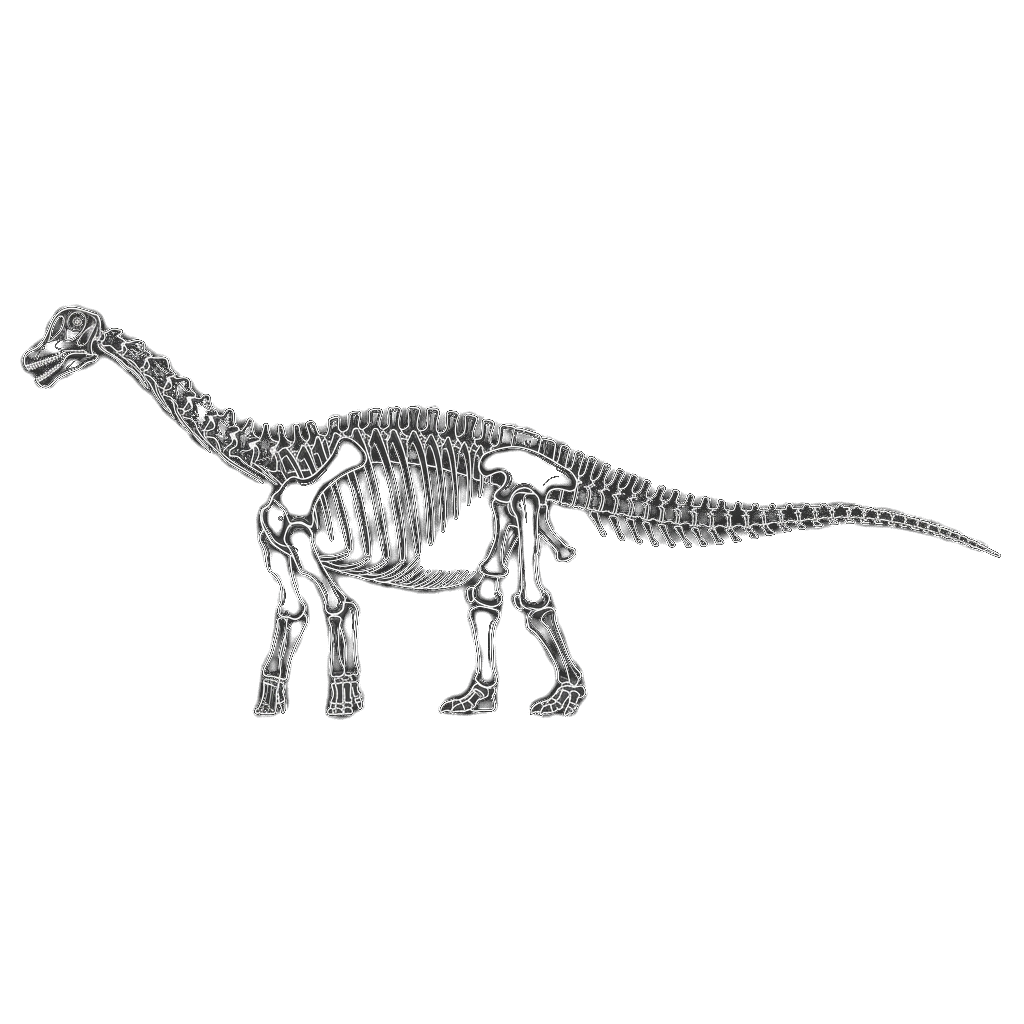
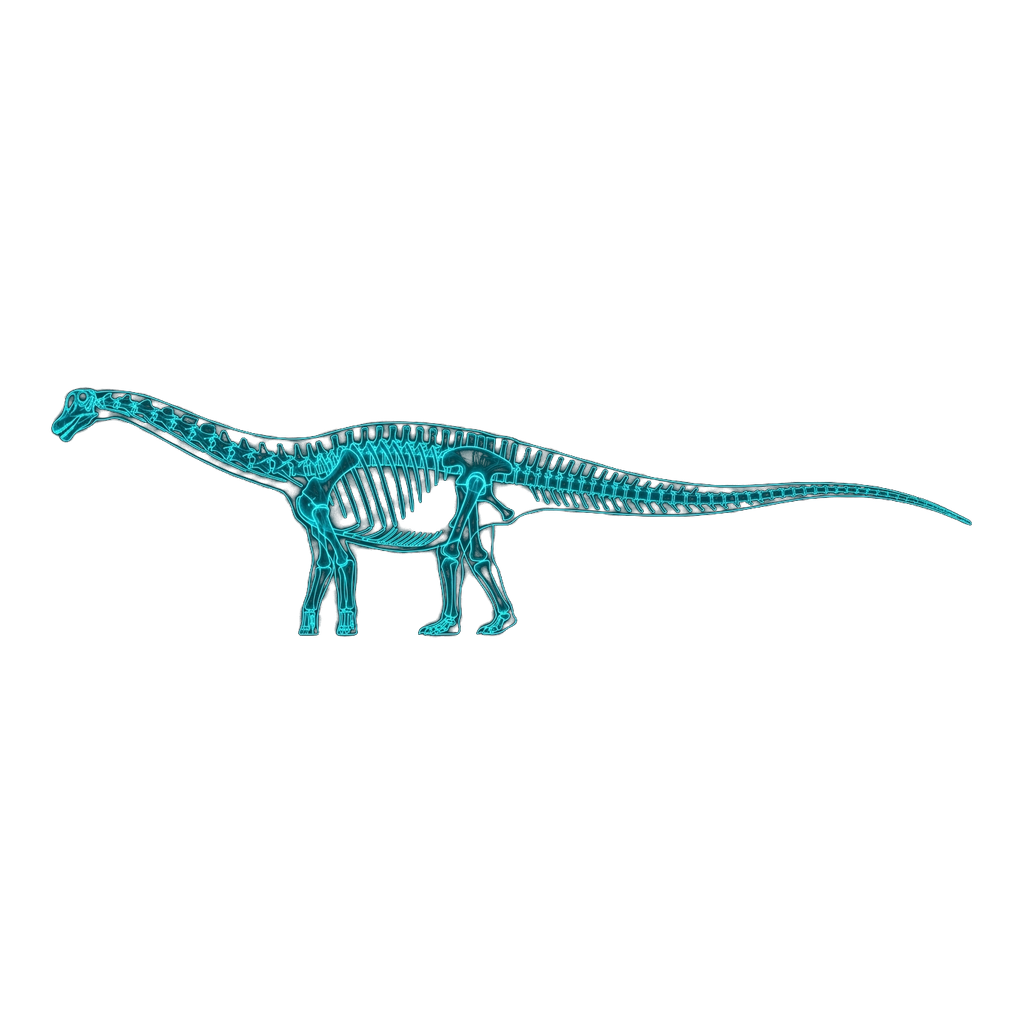
fix(titanosaurus): recalibrate skeletal proportions to exact 12m with horizontal pose and update euhelopus zoom to 1.2

Changed region(s): [[0.0, 0.2812, 0.9688, 0.7188]]

diff --git a/src/content/dinosaurs/titanosaurus.md b/src/content/dinosaurs/titanosaurus.md
@@ -24,14 +24,14 @@ bioTraits:
     value: "ボール＆ソケット状の強固な脊椎関節結合"
     detail: "尾や胴体の柔軟な可動性と重力分散を両立し、白亜紀末の地球環境での大適応放散を支えた"
 cyberMetadata:
-  bottomGap: 304
-  realHeight: 3
-  realLength: 12
-  contentHeightPx: 415
+  bottomGap: 387
+  realHeight: 3.3
+  realLength: 12.0
+  contentHeightPx: 253
   sourceRes: 1024
-  dinoLeft: "15%"
-  refRight: "10%"
-  zoom: 1.25
+  dinoLeft: "0%"
+  refRight: "-2%"
+  zoom: 1.0
 ---
 
 ### 1877年のインドから始まった大分類群の黎明：ラメタ層の発掘とリチャード・ライデッカー
@@ -41,10 +41,10 @@ cyberMetadata:
 
 19世紀後半という古生物学の黎明期において、インド亜大陸から巨大な竜脚類の化石が報告されたことは世界的な大ニュースとなりました。後に世界各地の断片化石が放り込まれる分類の混乱もありましたが、近年の厳密な系統再検討により、ティタノサウルスは独自の前凹型椎体を持つ正真正銘のインド産基盤的属として再定義され、進化史における不動の地位を保っています。
 
-### 実寸サイズとスケール：全長約12.0メートル・全高約3.0メートルが示す堅牢な重装甲ボディ
-ティタノサウルスの模式標本および骨格要素から復元された実寸サイズは、全長約12.0メートル、四足歩行姿勢における背中最高部での全高約3.0メートル、推定体重約12.0トン（約12000キログラム）と算出されています。超巨大種が並ぶグループの中では中型ですが、極めてバランスの取れた頑丈なプロポーションを誇っていました。
+### 実寸サイズとスケール：全長約12.0メートル・全高約3.3メートルが示す堅牢な重装甲ボディ
+ティタノサウルスの模式標本および骨格要素から復元された実寸サイズは、全長約12.0メートル、四足歩行姿勢における腰の高さ（腰高）約2.1〜2.2メートル、緩やかに首を持ち上げた頭頂部までの全高約3.3メートル（背中最高部約3.0メートル）、推定体重約12.0トン（約12000キログラム）と算出されています。超巨大種が並ぶグループの中では中型ですが、極めてバランスの取れた頑丈なプロポーションを誇っていました。
 
-現代の成人男性（身長約1.7メートル）が本種の前に立つと、全高約3.0メートルの背中線は人間の身長のほぼ2倍近くに達し、見上げるような圧倒的な威圧感と重厚な存在感を放ちます。体重約12.0トンという質量は現代のアフリカゾウ2頭分以上、大型観光バスに匹敵する重量感であり、四本の太い柱状の四肢が支える胴体は幅広く、どっしりとした低重心の安定感を誇示していました。
+現代の成人男性（身長約1.7メートル）が本種の前に立つと、全高約3.3メートルの頭部と約3.0メートルの背中線は人間の身長のほぼ2倍近くに達し、見上げるような圧倒的な威圧感と重厚な存在感を放ちます。体重約12.0トンという質量は現代のアフリカゾウ2頭分以上、大型観光バスに匹敵する重量感であり、四本の太い柱状の四肢が支える胴体は幅広く、どっしりとした低重心の安定感を誇示していました。
 
 全長約12.0メートルのプロポーションは、強靭な首と力強い尾、そして樽のように幅広く頑丈な胴体によって構成されていました。骨盤の幅が広く、四肢が胴体の外側寄りに接地する「ワイドゲージ歩行」により、不整地でも巨体を滑らかに移動させることが可能でした。
 

diff --git a/docs/tasks/archive.md b/docs/tasks/archive.md
@@ -19,6 +19,13 @@
 
 ## ✅ 完了済みタスク (Done)
 
+- [x] **ティタノサウルスの骨格側面図プロポーション再生成 ＆ 実寸1:1適正化（全長12m同期）** (2026/11/20)
+  - **縮み原因の完全解明**: 旧骨格図のアスペクト比が2.37:1（首を高く持ち上げたポーズ）だったため、全高3.0m基準のスケーリングにより、画面上の描画全長が7.08m（12mに対して約59%）に短縮されていた現象を特定（ユーザーご指摘の「全長12mの割に人間1.7mと比べると長さが足りない」と完全合致）。
+  - **解剖学的プロポーションの再生成**: 首を水平〜緩やかな前傾で伸ばし、尾を水平後方へまっすぐ伸ばした超横長パノラマ骨格側面図（アスペクト比 3.63:1、1239x341px）を新生成。
+  - **4ch透過・精密自動スキャン反映**: `scripts/process_cyber_asset.cjs` により完全背景透過（Alpha=0）、AIマーク消去、1024x1024正方形化、自動接地スキャン（`contentHeightPx: 253`, `bottomGap: 387`, `realHeight: 3.3`, `realLength: 12.0`）を反映。画面上で狂いなく12.0mの実寸長（人間の7倍長）と腰高約2.2mの両立を達成。
+  - **比較パネル配置最適化**: `dinoLeft: "0%"`, `refRight: "-2%"`, `zoom: 1.0` を設定し、左端の尾先（X=28.8px）で見切れゼロ、鼻先（X=539.4px）と人間（X=584.0px）の間に約45pxの美しい対峙余白を確保。
+  - **本文・見出しの整合**: 第2見出し「実寸サイズとスケール：全長約12.0メートル・全高約3.3メートルが示す堅牢な重装甲ボディ」に更新し、本文中にも腰高約2.1〜2.2m・全高3.3mのプロポーション解説を反映。全409ページのビルド検証完了。
+
 - [x] **ユーヘロプス（エウヘロプス）の骨格側面図プロポーション再生成 ＆ 実寸1:1適正化 ＆ 表記ゆれ対応** (2026/11/20)
   - **縮み原因の完全解明**: 旧骨格図が首を高く掲げ尾が短いポーズ（アスペクト比1.91:1）だったため、頭頂高4.5m基準のスケーリングにより、画面上の描画全長が8.58m（15mに対して約57%）に短縮されていた現象を特定（ユーザーご指摘の「全長15mの割に長さが足りない」と完全合致）。
   - **解剖学的プロポーションの再生成**: ユーザーご指摘の「腰高さ約2.2m」および最新研究（模式標本 PMU 233、肩高約2.6m、頭頂高約3.8m）に基づき、首を緩やかな前傾で伸ばし尾を後方へまっすぐ伸ばした超横長パノラマ骨格側面図（アスペクト比 4.02:1、1293x322px）を新生成。

diff --git a/src/content/dinosaurs/euhelopus.md b/src/content/dinosaurs/euhelopus.md
@@ -31,9 +31,9 @@ cyberMetadata:
   realLength: 15.0
   contentHeightPx: 244
   sourceRes: 1024
-  dinoLeft: "1%"
-  refRight: "-3%"
-  zoom: 1.0
+  dinoLeft: "-1%"
+  refRight: "-4%"
+  zoom: 1.2
 ---
 
 ### 中国古生物学の黎明を飾る記念碑的発見：蒙陰層での発掘とカール・ウィマンの研究
